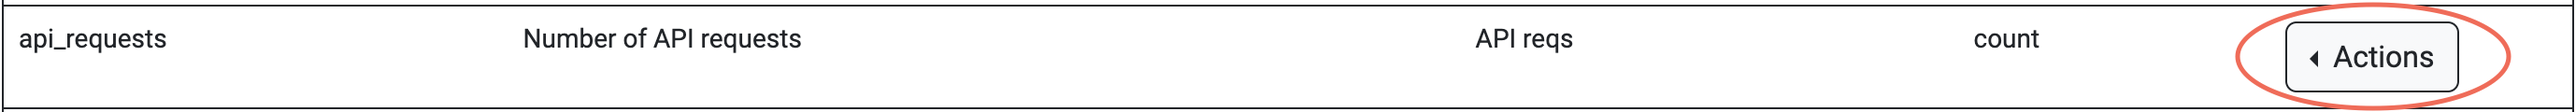
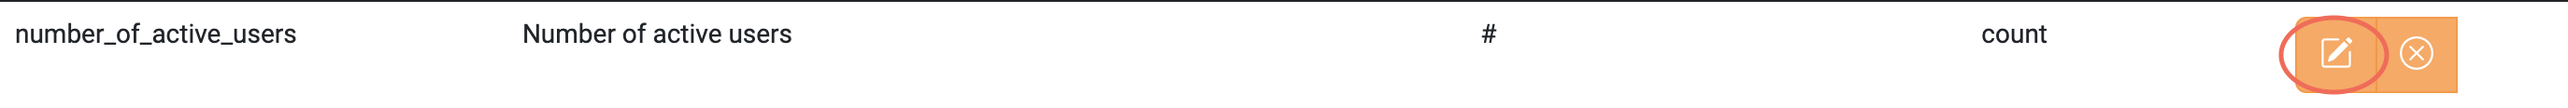
Manage Metric Definitions via UI
This commit contains the markdown file describing
how one client can manage Metric Definitions through
the Accounting User Interface.

ACC-176

diff --git a/website/docs/guides/ui_actions/metric_definition.md b/website/docs/guides/ui_actions/metric_definition.md
@@ -11,7 +11,7 @@ To manage the Metric Definitions via a website, please visit the Metric Definiti
 
 To create a new Metric Definition click the `Add a new Metric Definition` button.
 
-![](assets/metric_definition/tab.png)
+![](assets/metric_definition/create.png)
 
 Fill in the form with your preferred values and click the `Submit` button.
 
@@ -19,7 +19,7 @@ Fill in the form with your preferred values and click the `Submit` button.
 
 If the Metric Definition is successfully created, the following message is displayed.
 
-![](assets/metric_definition/success.png)
+![](assets/metric_definition/create_success.png)
 
 ### View all the Metric Definitions
 
@@ -28,16 +28,11 @@ Then, all the created Metric Definitions by any client are displayed.
 
 ![](assets/metric_definition/metric_definitions.png)
 
-
 ### Update a Metric Definition
 
-Click the `Actions` button on a Metric Definition you want to update.
+Click the highlighted button on a Metric Definition you want to update.
 
 ![](assets/metric_definition/update.png)
-
-In the pop-up menu, choose `Update Metric Definition`.
-
-![](assets/metric_definition/update_pop_up.png)
 
 Change the values that you want and click the `Submit` button.
 
@@ -45,22 +40,18 @@ Change the values that you want and click the `Submit` button.
 
 If the Metric Definition is successfully updated, the following message is displayed.
 
-![](assets/metric_definition/update_message.png)
+![](assets/metric_definition/update_success.png)
 
 ### Delete a Metric Definition
 
-Click the `Actions` button on a Metric Definition you want to delete.
-
-![](assets/metric_definition/update.png)
-
-In the pop-up menu, choose `Delete Metric Definition`.
+Click the highlighted button on a Metric Definition you want to delete.
 
 ![](assets/metric_definition/delete.png)
 
-To delete the chosen Metric Definition click the `Delete Metric Definition` Button.
+To delete the chosen Metric Definition click the `Delete Metric Definition` button.
 
-![](assets/metric_definition/delete_button.png)
+![](assets/metric_definition/delete_submit.png)
 
 If the Metric Definition is successfully deleted, the following message is displayed.
 
-![](assets/metric_definition/update_message.png)
+![](assets/metric_definition/delete_success.png)

diff --git a/CHANGELOG.md b/CHANGELOG.md
@@ -24,10 +24,13 @@ According to [Keep a Changelog](https://keepachangelog.com/en/1.0.0/) , the `Unr
 
 ---
 
+### Added
+
+-   [#138](https://github.com/ARGOeu/argo-accounting/pull/138) - Docusaurus Guideline for managing Metric Definitions via UI
+
 ### Changed
 
 -   [#139](https://github.com/ARGOeu/argo-accounting/pull/139) - Use another endpoint for retrieving the EOSC Providers.
-
 
 ## 1.0.0 - 2023-01-31
 
